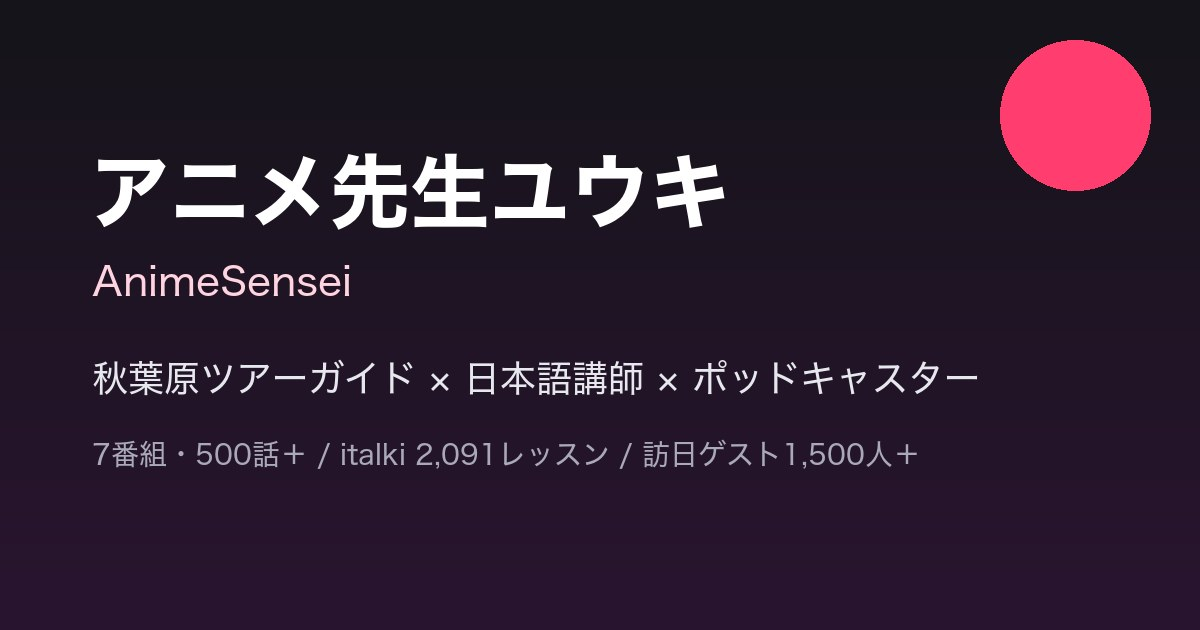
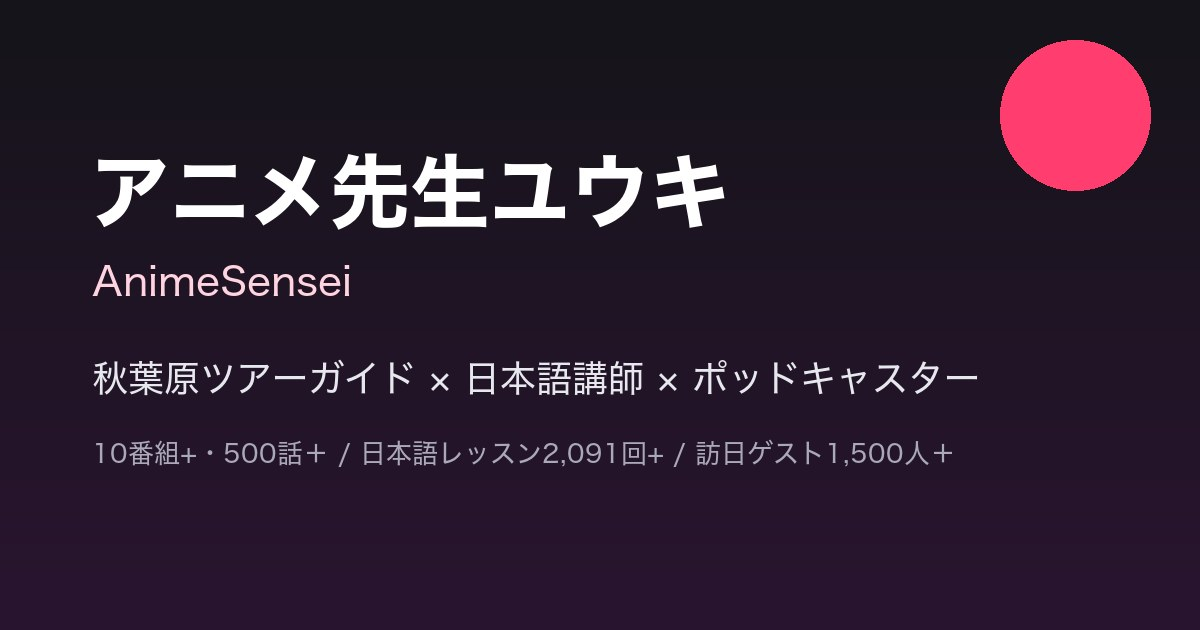
fix: 日本語レッスンを実施数表現に(italki語を排除/自社サイトも明記)・ポッドキャスト10番組+に更新・OGP再生成

Changed region(s): [[0.0617, 0.6937, 0.7708, 0.754]]

diff --git a/index.html b/index.html
@@ -4,7 +4,7 @@
 <meta charset="UTF-8">
 <meta name="viewport" content="width=device-width, initial-scale=1.0">
 <title>アニメ先生ユウキ｜秋葉原ツアーガイド × 日本語講師 × ポッドキャスター</title>
-<meta name="description" content="アニメ先生ユウキ（AnimeSensei）の公式サイト。秋葉原アニメツアーで訪日ゲスト1,500人以上をガイドし、オタク向け日本語レッスン（italki 2,091レッスン・Top1%）、7番組・500話超のポッドキャストを運営。旅と多拠点生活をしながら『好き』を仕事にするオタクのハブ。">
+<meta name="description" content="アニメ先生ユウキ（AnimeSensei）の公式サイト。秋葉原アニメツアーで訪日ゲスト1,500人以上をガイドし、オタク向け日本語レッスン（実施2,091回以上）、10番組以上・500話超のポッドキャストを運営。旅と多拠点生活をしながら『好き』を仕事にするオタクのハブ。">
 <link rel="canonical" href="https://animesensei.jp/">
 <meta name="robots" content="index,follow,max-image-preview:large">
 
@@ -12,14 +12,14 @@
 <meta property="og:type" content="profile">
 <meta property="og:site_name" content="アニメ先生ユウキ">
 <meta property="og:title" content="アニメ先生ユウキ｜秋葉原ツアーガイド × 日本語講師 × ポッドキャスター">
-<meta property="og:description" content="秋葉原アニメツアー・オタク向け日本語レッスン・7番組のポッドキャスト。旅と多拠点生活をしながら『好き』を仕事にするオタクのハブ。">
+<meta property="og:description" content="秋葉原アニメツアー・オタク向け日本語レッスン・10番組以上のポッドキャスト。旅と多拠点生活をしながら『好き』を仕事にするオタクのハブ。">
 <meta property="og:url" content="https://animesensei.jp/">
 <meta property="og:image" content="https://animesensei.jp/assets/img/og.jpg">
 <meta property="og:locale" content="ja_JP">
 <meta property="og:locale:alternate" content="en_US">
 <meta name="twitter:card" content="summary_large_image">
 <meta name="twitter:title" content="アニメ先生ユウキ｜秋葉原ツアーガイド × 日本語講師 × ポッドキャスター">
-<meta name="twitter:description" content="秋葉原アニメツアー・オタク向け日本語レッスン・7番組のポッドキャスト。">
+<meta name="twitter:description" content="秋葉原アニメツアー・オタク向け日本語レッスン・10番組以上のポッドキャスト。">
 <meta name="twitter:image" content="https://animesensei.jp/assets/img/og.jpg">
 <link rel="alternate" hreflang="ja" href="https://animesensei.jp/">
 <link rel="alternate" hreflang="en" href="https://animesensei.jp/en/">
@@ -54,7 +54,7 @@
       "url": "https://animesensei.jp/",
       "image": "https://animesensei.jp/assets/img/og.jpg",
       "jobTitle": ["秋葉原アニメツアーガイド", "日本語講師", "ポッドキャスター", "インバウンドマーケター"],
-      "description": "秋葉原アニメツアーで訪日ゲスト1,500人以上をガイドし、オタク向け日本語レッスン（italki 2,091レッスン・Top1%）と7番組・500話超のポッドキャストを運営。旅と多拠点生活をしながら活動するオタク。",
+      "description": "秋葉原アニメツアーで訪日ゲスト1,500人以上をガイドし、オタク向け日本語レッスン（実施2,091回以上）と10番組以上・500話超のポッドキャストを運営。旅と多拠点生活をしながら活動するオタク。",
       "knowsAbout": ["アニメ", "マンガ", "秋葉原", "日本語教育", "ポッドキャスト", "多拠点生活", "インバウンド観光", "民泊"],
       "knowsLanguage": ["ja", "en"],
       "address": {"@type": "PostalAddress", "addressRegion": "埼玉県", "addressCountry": "JP"},
@@ -211,7 +211,7 @@
     <div class="wrap">
       <span class="eyebrow">秋葉原 × アニメ × 多拠点生活</span>
       <h1 class="title display">「好き」を仕事にする、<br><span class="hl">オタクのハブ</span>サイト。</h1>
-      <p class="lead">アニメ先生ユウキ（AnimeSensei）です。秋葉原アニメツアーのガイド、オタク向けの日本語レッスン、7番組のポッドキャスト。旅をしながら、好きなことを発信しています。</p>
+      <p class="lead">アニメ先生ユウキ（AnimeSensei）です。秋葉原アニメツアーのガイド、オタク向けの日本語レッスン、10番組以上のポッドキャスト。旅をしながら、好きなことを発信しています。</p>
       <div class="cta-row">
         <a href="#work" class="btn btn-primary">▶ 依頼・予約を見る</a>
         <a href="#links" class="btn btn-ghost">各種リンク</a>
@@ -219,9 +219,9 @@
       </div>
 
       <div class="stats">
-        <div class="stat"><div class="n">7<span class="u">番組</span></div><div class="l">ポッドキャスト運営</div></div>
+        <div class="stat"><div class="n">10<span class="u">番組+</span></div><div class="l">ポッドキャスト運営</div></div>
         <div class="stat"><div class="n">500<span class="u">話+</span></div><div class="l">配信エピソード</div></div>
-        <div class="stat"><div class="n">2,091<span class="u">回</span></div><div class="l">italki レッスン実績</div></div>
+        <div class="stat"><div class="n">2,091<span class="u">回+</span></div><div class="l">日本語レッスン実施</div></div>
         <div class="stat"><div class="n">1,500<span class="u">人+</span></div><div class="l">訪日ゲストをガイド</div></div>
       </div>
     </div>
@@ -238,7 +238,7 @@
       <div class="now-grid">
         <div class="now">
           <div class="ic">🎙️</div>
-          <h3>ポッドキャスト 7番組</h3>
+          <h3>ポッドキャスト 10番組+</h3>
           <p>旅・アキバ・珈琲・メンタル・地域まで。500話以上を配信中。雑談からニッチな専門話まで毎日更新。</p>
           <a class="more" href="#podcast">番組を見る →</a>
         </div>
@@ -251,7 +251,7 @@
         <div class="now">
           <div class="ic">🇯🇵</div>
           <h3>オタク向け日本語レッスン</h3>
-          <p>アニメ・マンガ1,500作品以上の知識で「好き」から学ぶ日本語。italki Top1%・2,091レッスンの実績。</p>
+          <p>アニメ・マンガ1,500作品以上の知識で「好き」から学ぶ日本語。自社サイト・各オンラインプラットフォームで累計2,091回以上のレッスン実績。</p>
           <a class="more" href="#work">レッスンを見る →</a>
         </div>
       </div>
@@ -263,8 +263,8 @@
     <div class="wrap">
       <div class="sec-head">
         <div class="sec-kicker">PODCAST</div>
-        <h2 class="sec-title display">配信中の7番組</h2>
-        <p class="sec-sub">7番組・500話以上を配信中。旅・アキバ・珈琲・メンタル・地域まで幅広く展開中！</p>
+        <h2 class="sec-title display">配信中のポッドキャスト</h2>
+        <p class="sec-sub">10番組以上・500話以上を配信中。旅・アキバ・珈琲・メンタル・地域まで幅広く展開中！（一部を掲載）</p>
       </div>
       <!-- PODCAST_CARDS_START (build/refresh_podcasts.py がこの区間を再生成) -->
       <div class="pod-grid">
@@ -355,7 +355,7 @@
       <div class="work-grid">
         <div class="work">
           <h3>🇯🇵 日本語レッスン</h3>
-          <p>アニメ・マンガで学ぶオタク向け日本語。初心者〜上級まで。体験レッスンあり。</p>
+          <p>アニメ・マンガで学ぶオタク向け日本語。初心者〜上級・体験レッスンあり。講師評価で上位1%の実績。</p>
           <a class="btn btn-primary" href="https://animesenseijp.com/" target="_blank" rel="noopener">レッスンを予約</a>
         </div>
         <div class="work">

diff --git a/en/index.html b/en/index.html
@@ -4,13 +4,13 @@
 <meta charset="UTF-8">
 <meta name="viewport" content="width=device-width, initial-scale=1.0">
 <title>AnimeSensei Yuuki｜Akihabara Anime Tour Guide × Japanese Teacher × Podcaster</title>
-<meta name="description" content="AnimeSensei Yuuki's official site. Akihabara anime tour guide (1,500+ international guests), otaku-focused Japanese lessons (italki: 2,091 lessons, Top 1%), and 7 podcast shows. Turning what I love into my work, while living a multi-base nomad life.">
+<meta name="description" content="AnimeSensei Yuuki's official site. Akihabara anime tour guide (1,500+ international guests), otaku-focused Japanese lessons (2,091+ taught), and 10+ podcast shows. Turning what I love into my work, while living a multi-base nomad life.">
 <link rel="canonical" href="https://animesensei.jp/en/">
 <meta name="robots" content="index,follow,max-image-preview:large">
 <meta property="og:type" content="profile">
 <meta property="og:site_name" content="AnimeSensei Yuuki">
 <meta property="og:title" content="AnimeSensei Yuuki｜Akihabara Anime Tour Guide × Japanese Teacher × Podcaster">
-<meta property="og:description" content="Akihabara anime tours, otaku-focused Japanese lessons, and 7 podcast shows.">
+<meta property="og:description" content="Akihabara anime tours, otaku-focused Japanese lessons, and 10+ podcast shows.">
 <meta property="og:url" content="https://animesensei.jp/en/">
 <meta property="og:image" content="https://animesensei.jp/assets/img/og.jpg">
 <meta property="og:locale" content="en_US">
@@ -29,7 +29,7 @@
   "name":"AnimeSensei Yuuki","alternateName":"アニメ先生ユウキ",
   "url":"https://animesensei.jp/en/","image":"https://animesensei.jp/assets/img/og.jpg",
   "jobTitle":["Akihabara Anime Tour Guide","Japanese Teacher","Podcaster"],
-  "description":"Akihabara anime tour guide who has guided 1,500+ international guests, runs otaku-focused Japanese lessons (italki Top 1%, 2,091 lessons) and 7 podcast shows.",
+  "description":"Akihabara anime tour guide who has guided 1,500+ international guests, runs otaku-focused Japanese lessons (2,091+ taught, top 1% rated) and 10+ podcast shows.",
   "knowsLanguage":["en","ja"],
   "address":{"@type":"PostalAddress","addressRegion":"Saitama","addressCountry":"JP"},
   "sameAs":["https://animesenseijp.com/","https://podcasters.spotify.com/pod/show/akibanow"]
@@ -85,15 +85,15 @@
   <section class="hero"><div class="wrap">
     <span class="eyebrow">Akihabara × Anime × Nomad life</span>
     <h1>Turning what I love<br>into my work.</h1>
-    <p class="lead">Hi, I'm Yuuki (AnimeSensei). I guide deep-dive Akihabara anime tours, teach otaku-focused Japanese, and run 7 podcast shows — while living a multi-base life across Japan.</p>
+    <p class="lead">Hi, I'm Yuuki (AnimeSensei). I guide deep-dive Akihabara anime tours, teach otaku-focused Japanese, and run 10+ podcast shows — while living a multi-base life across Japan.</p>
     <div class="cta-row">
       <a href="#work" class="btn btn-primary">▶ Book / Hire me</a>
       <a href="../assets/files/yuuki.vcf" class="btn btn-ghost" download>📇 Save contact</a>
     </div>
     <div class="stats">
-      <div class="stat"><div class="n">7</div><div class="l">Podcast shows</div></div>
+      <div class="stat"><div class="n">10+</div><div class="l">Podcast shows</div></div>
       <div class="stat"><div class="n">500+</div><div class="l">Episodes</div></div>
-      <div class="stat"><div class="n">2,091</div><div class="l">italki lessons</div></div>
+      <div class="stat"><div class="n">2,091+</div><div class="l">Lessons taught</div></div>
       <div class="stat"><div class="n">1,500+</div><div class="l">Guests guided</div></div>
     </div>
   </div></section>
@@ -102,8 +102,8 @@
     <div class="sec-kicker">WHAT I DO</div><h2>What I'm doing now</h2>
     <div class="now-grid">
       <div class="now"><div class="ic">🗼</div><h3>Akihabara Anime Tour</h3><p>A deep, local Akihabara experience for visitors to Japan. 1,500+ guests guided. English-friendly. Bookable via Airbnb / Viator.</p></div>
-      <div class="now"><div class="ic">🇯🇵</div><h3>Japanese Lessons</h3><p>Learn Japanese through anime &amp; manga (1,500+ titles). For beginners to advanced. italki Top 1%, 2,091 lessons.</p></div>
-      <div class="now"><div class="ic">🎙️</div><h3>Podcasts</h3><p>7 shows, 500+ episodes — travel, Akihabara, coffee, mental health, and local life (mostly in Japanese).</p></div>
+      <div class="now"><div class="ic">🇯🇵</div><h3>Japanese Lessons</h3><p>Learn Japanese through anime &amp; manga (1,500+ titles). For beginners to advanced. 2,091+ lessons taught, top 1% rated.</p></div>
+      <div class="now"><div class="ic">🎙️</div><h3>Podcasts</h3><p>10+ shows, 500+ episodes — travel, Akihabara, coffee, mental health, and local life (mostly in Japanese).</p></div>
     </div>
   </div></section>
 
@@ -111,7 +111,7 @@
     <div class="sec-kicker">WORK WITH ME</div><h2>Book / Hire me</h2>
     <div class="work-grid">
       <div class="work"><h3>🗼 Akihabara Tour</h3><p>English-guided anime tour of Akihabara for visitors to Japan.</p><a class="btn btn-primary" href="https://www.airbnb.com/" target="_blank" rel="noopener">Book a tour</a></div>
-      <div class="work"><h3>🇯🇵 Japanese Lessons</h3><p>Otaku-friendly Japanese lessons. Trial available.</p><a class="btn btn-primary" href="https://animesenseijp.com/" target="_blank" rel="noopener">Book a lesson</a></div>
+      <div class="work"><h3>🇯🇵 Japanese Lessons</h3><p>Otaku-friendly Japanese lessons. 2,091+ taught, top 1% rated. Trial available.</p><a class="btn btn-primary" href="https://animesenseijp.com/" target="_blank" rel="noopener">Book a lesson</a></div>
       <div class="work"><h3>🤝 Media / Collab</h3><p>Talks, interviews and collaborations on inbound tourism, nomad life and podcasting.</p><a class="btn btn-primary" href="mailto:[email redacted]?subject=Inquiry (AnimeSensei)">Email me</a></div>
     </div>
   </div></section>